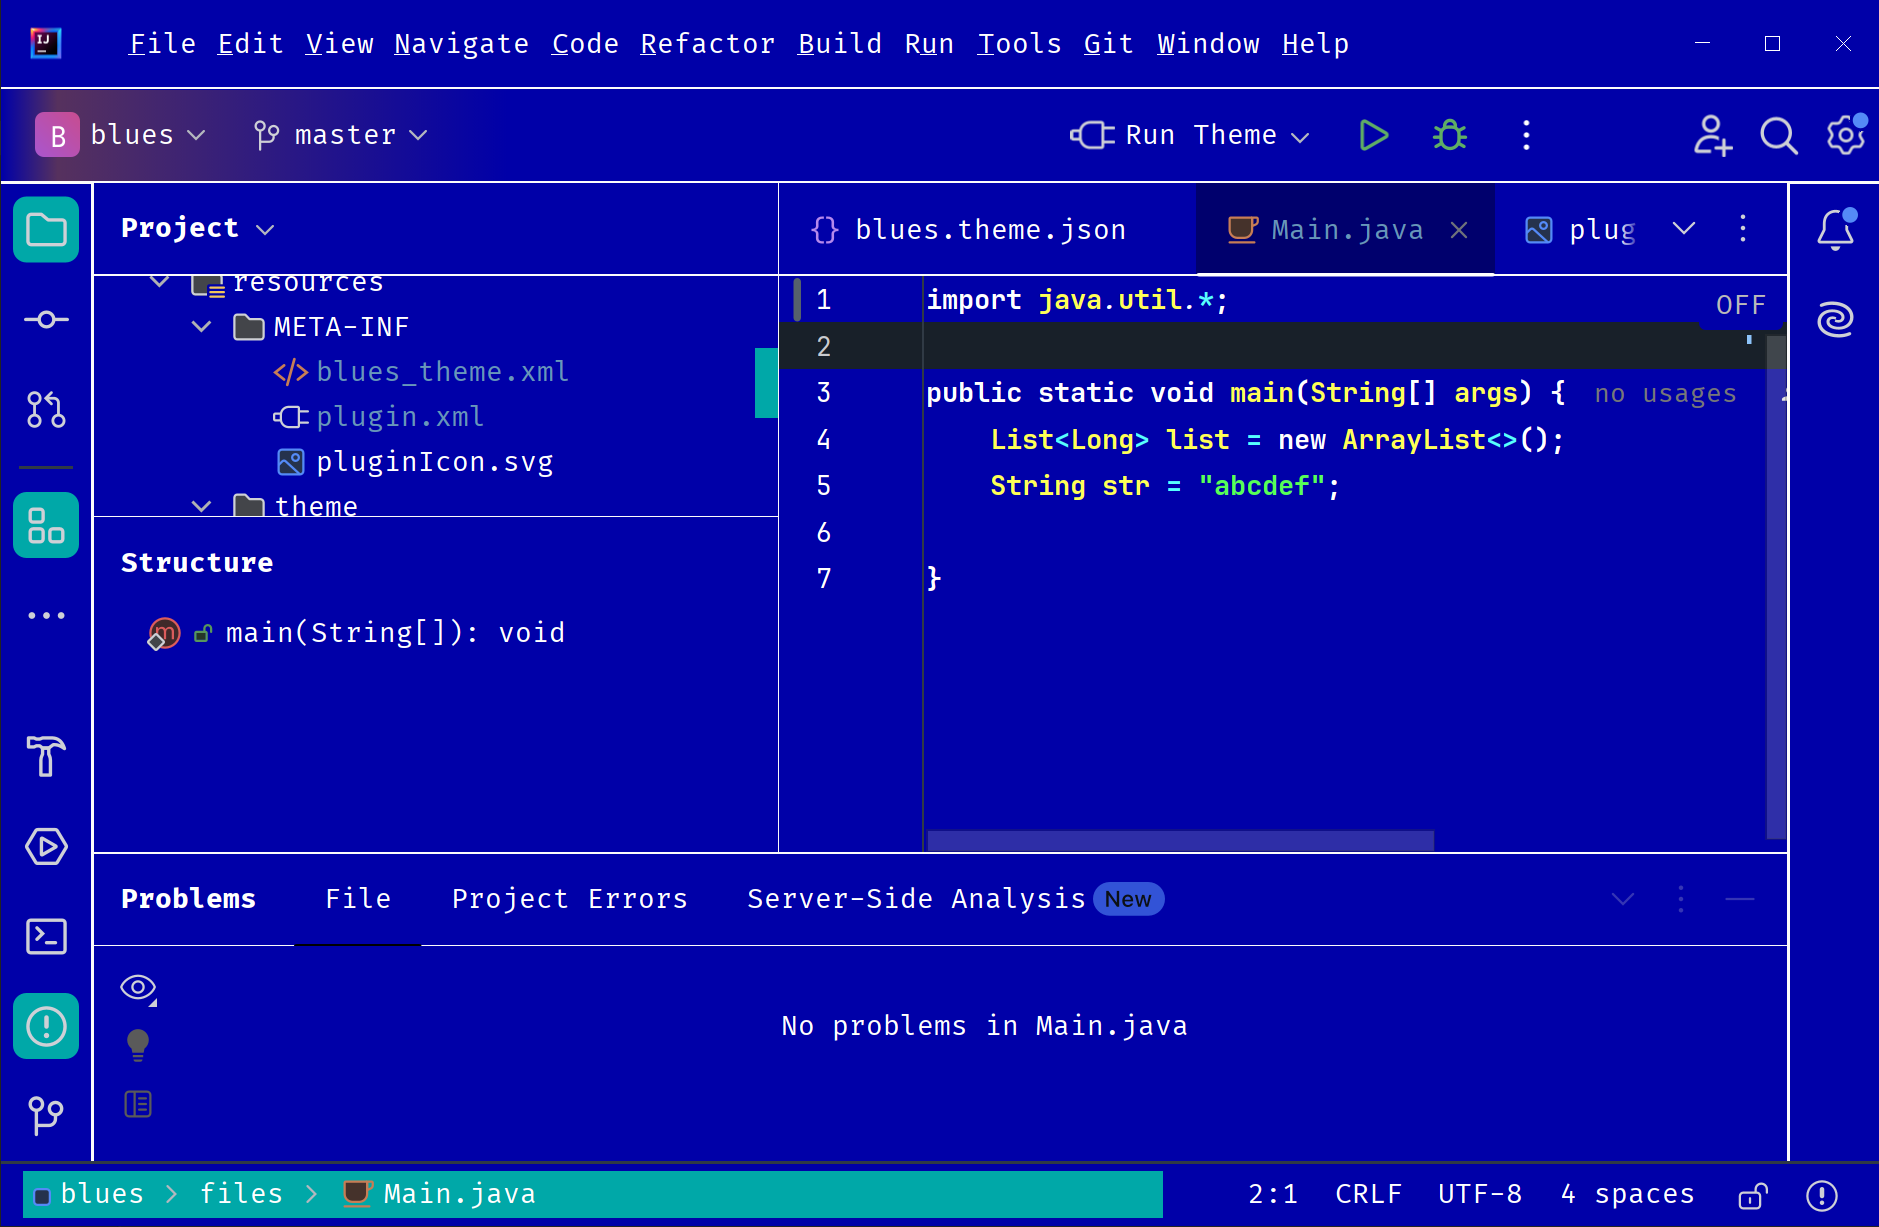
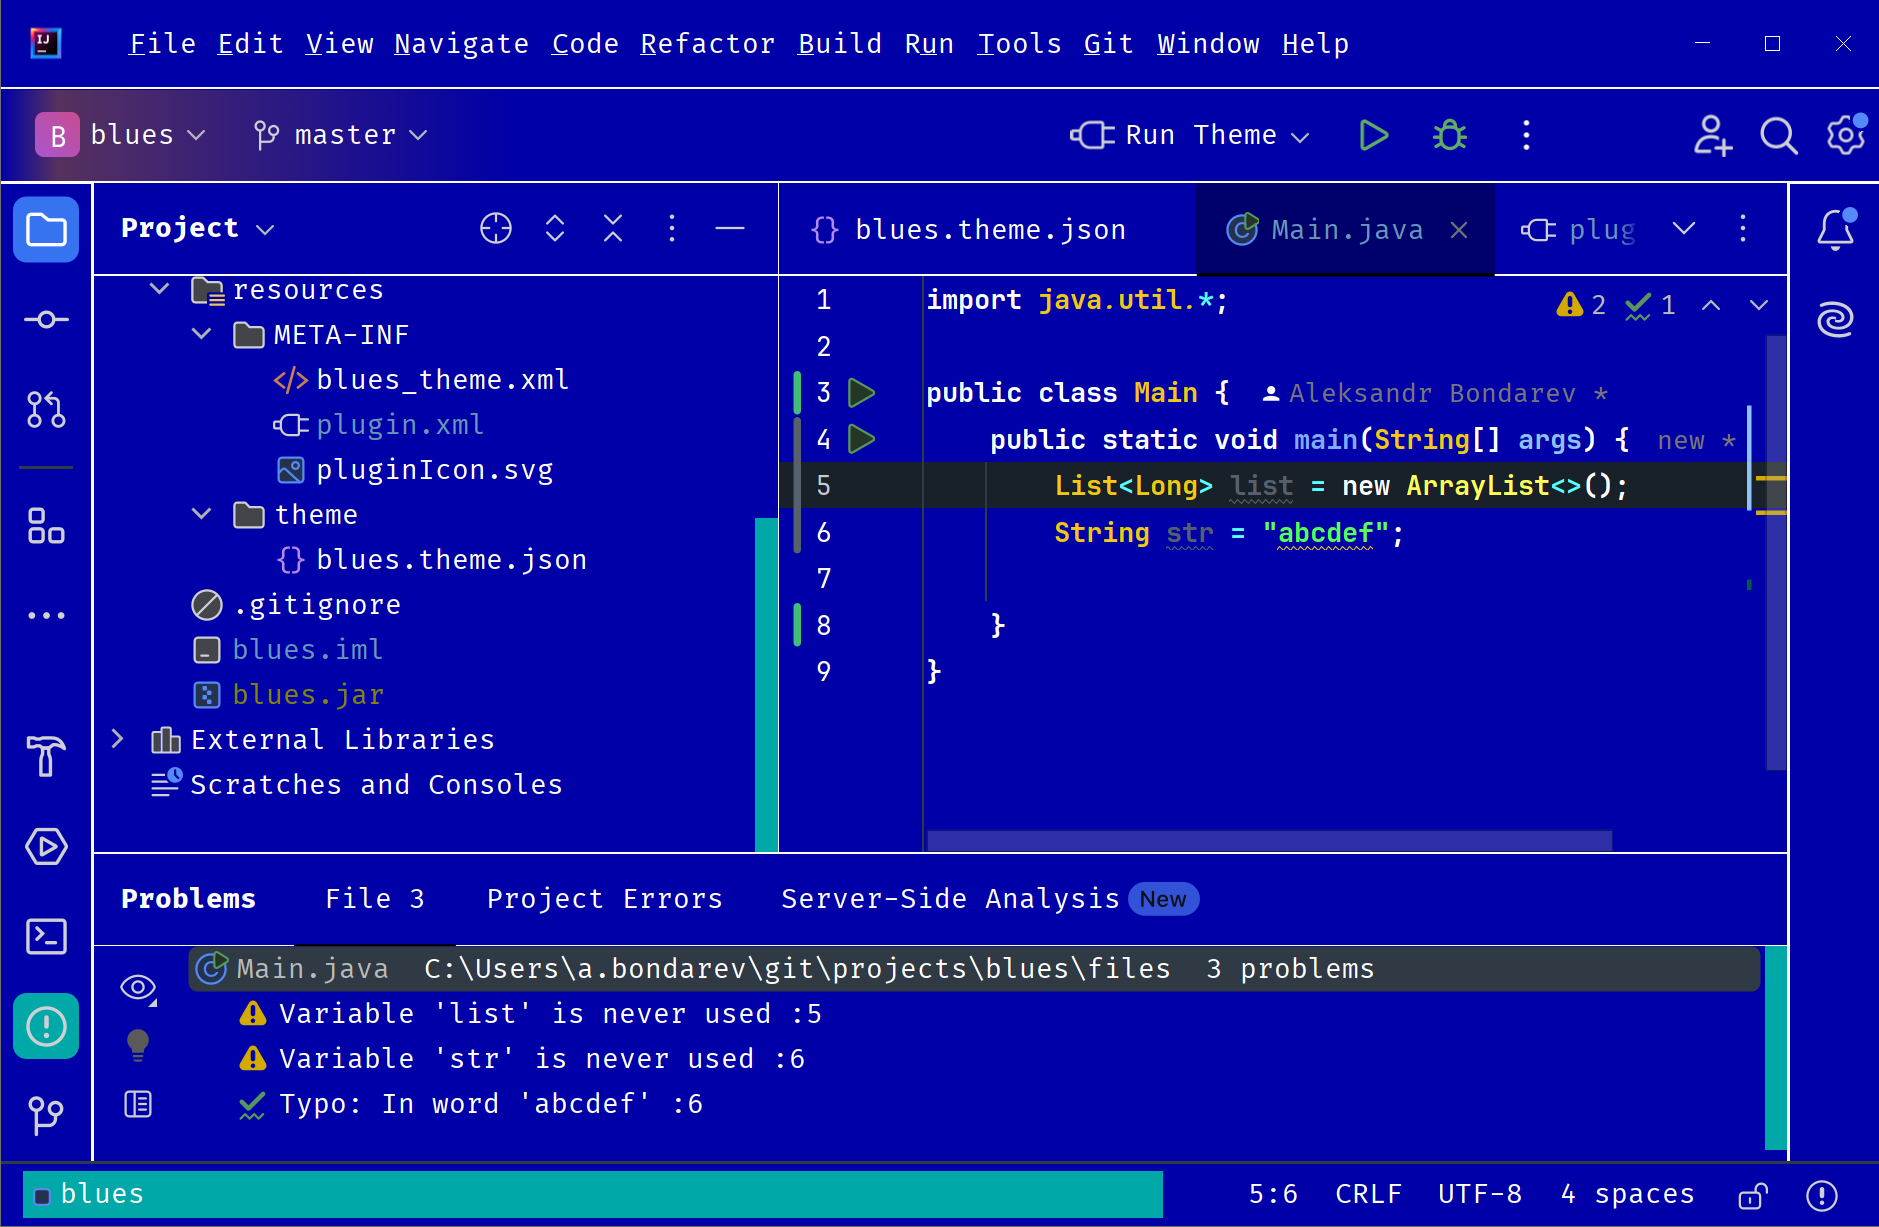
theme

diff --git a/files/Main.java b/files/Main.java
@@ -1,7 +1,9 @@
 import java.util.*;
 
-public static void main(String[] args) {
-    List<Long> list = new ArrayList<>();
-    String str = "abcdef";
+public class Main {
+    public static void main(String[] args) {
+        List<Long> list = new ArrayList<>();
+        String str = "abcdef";
 
+    }
 }
